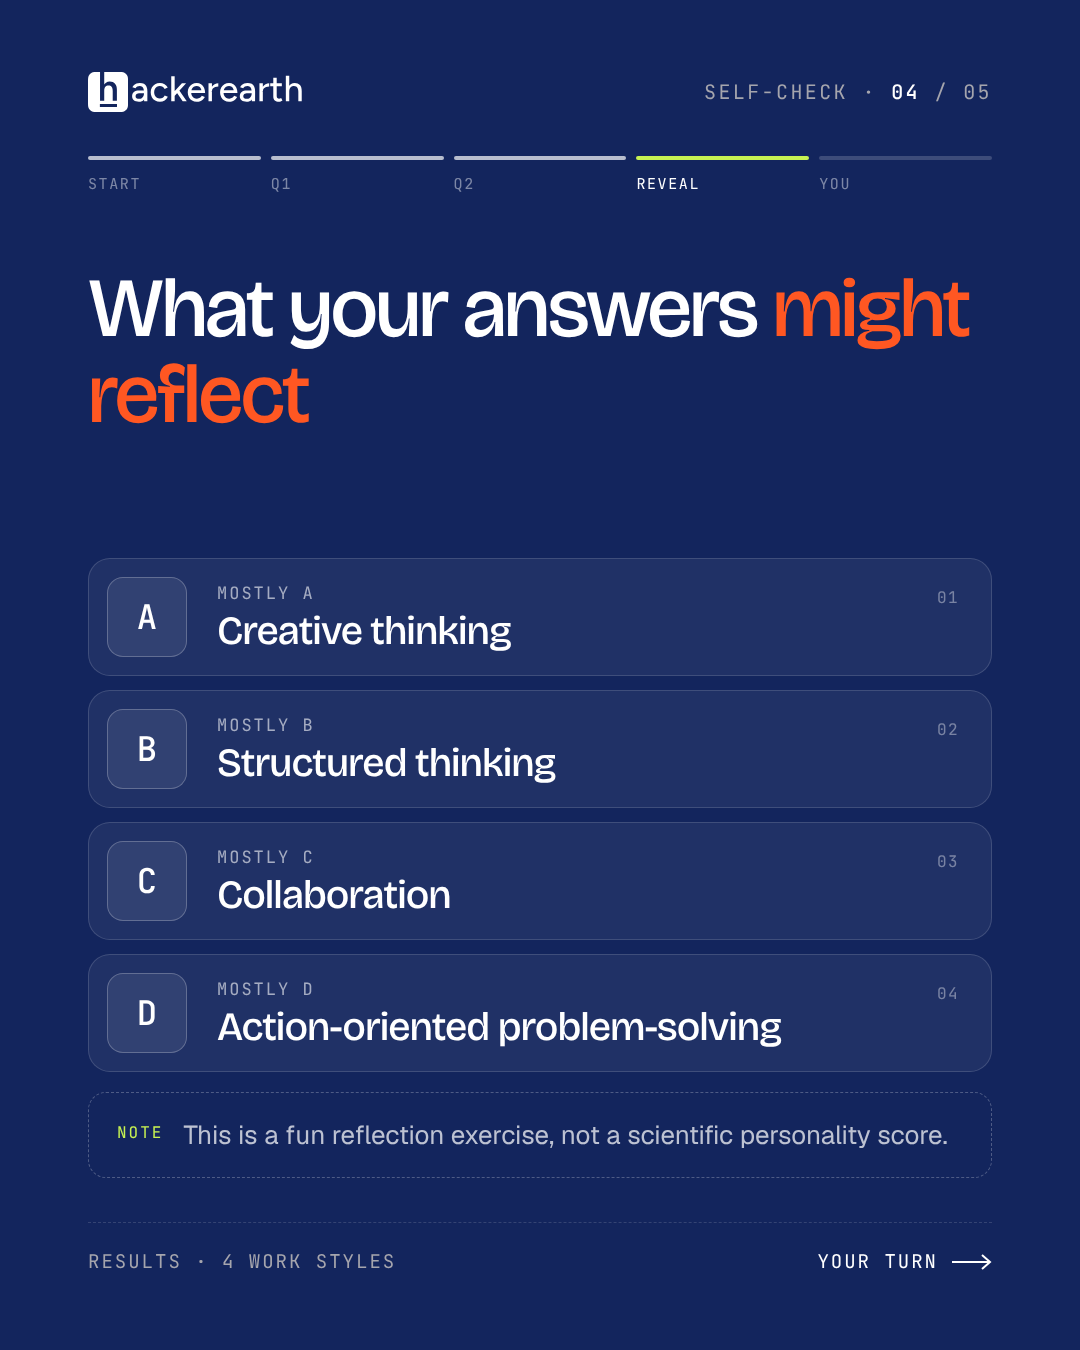
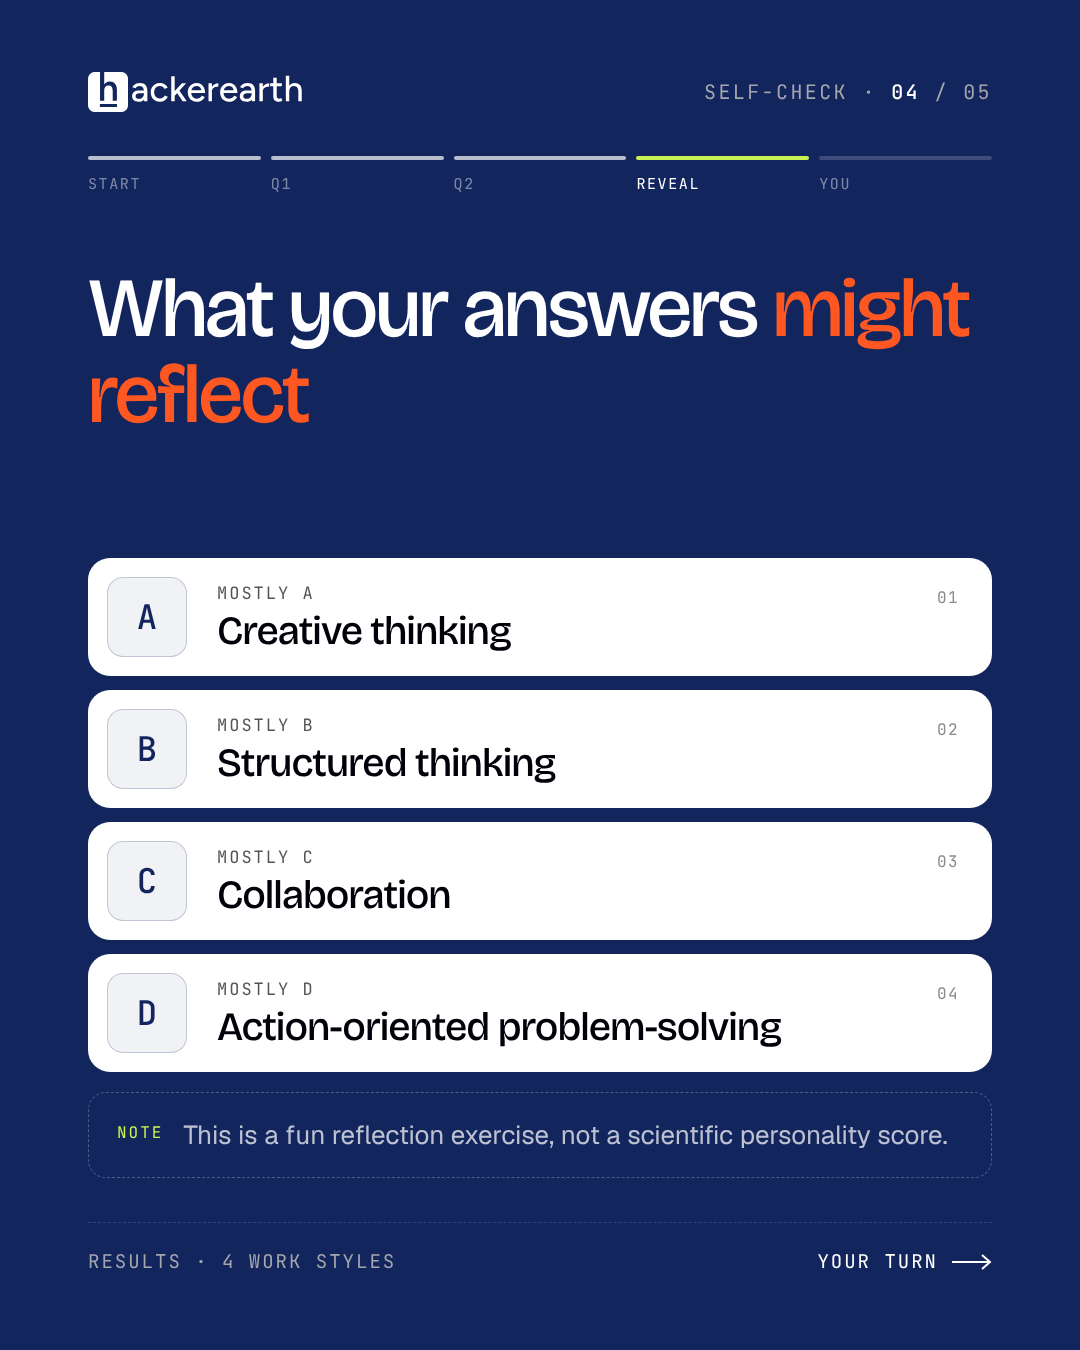
Carousel: white result boxes on reveal slide
Claude-Session: https://claude.ai/code/session_011WvSfd7jShGBWHTo2t24v1

Changed region(s): [[0.0611, 0.4044, 0.9167, 0.8089]]

diff --git a/instagram-carousels/set-2-60-second-self-check/carousel.html b/instagram-carousels/set-2-60-second-self-check/carousel.html
@@ -168,12 +168,9 @@
   .dark .progress-track span { background: rgba(255,255,255,0.18); }
   .dark .progress-labels { color: rgba(255,255,255,0.45); }
   .dark .answers-head { color: rgba(255,255,255,0.55); }
-  .dark .result .letter, .dark .chip { color: #fff; background: rgba(255,255,255,0.08); border-color: rgba(255,255,255,0.24); }
+  .dark .chip { color: #fff; background: rgba(255,255,255,0.08); border-color: rgba(255,255,255,0.24); }
   .dark .option { border-color: transparent; }  /* answer boxes stay white on navy */
-  .dark .result { background: rgba(255,255,255,0.06); border-color: rgba(255,255,255,0.14); }
-  .dark .result .mostly { color: rgba(255,255,255,0.6); }
-  .dark .result .style { color: #fff; }
-  .dark .result .coord { color: rgba(255,255,255,0.4); }
+  .dark .result { border-color: transparent; }  /* result boxes stay white on navy */
   .dark .note { border-color: rgba(255,255,255,0.25); }
   .dark .note .tag { color: var(--lime); }
   .dark .note p, .dark.s5 .ask { color: rgba(255,255,255,0.72); }
